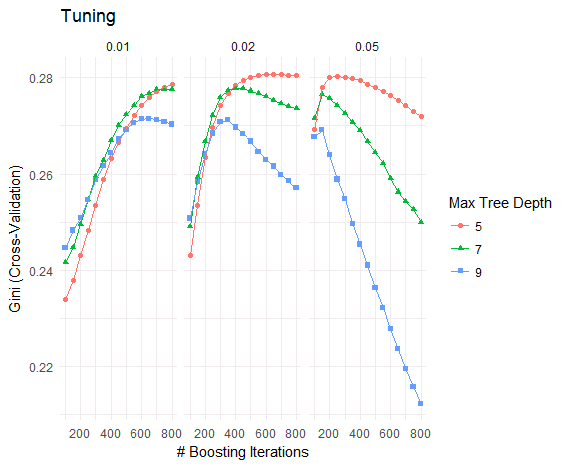
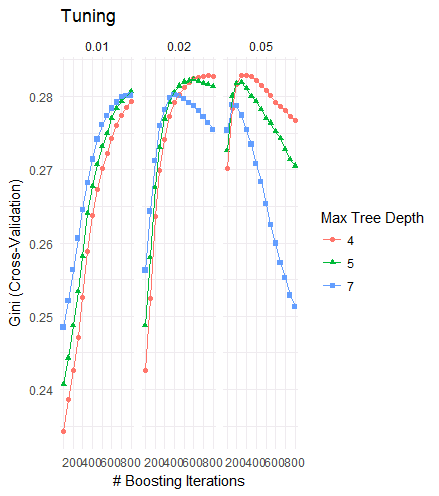
Scoring now

diff --git a/README.md b/README.md
@@ -33,4 +33,9 @@ Best CV Gini  : 0.2807336
 Tuning suggests smaller tree depth is better
 nr of iterations & eta sort of inverse related as always
 
-TODO prep for scoring
+submitted; LB score only .277/.278 instead of CV of .282 here
+
+    eta max_depth gamma colsample_bytree min_child_weight subsample nrounds       ROC      Sens         Spec      Gini
+95 0.05         4     1                1                1         1     300 0.6414324 0.9999808 0.0004148421 0.2828647
+         ROCSD       SensSD       SpecSD      GiniSD
+95 0.002185704 3.898815e-06 0.0003786973 0.004371408
